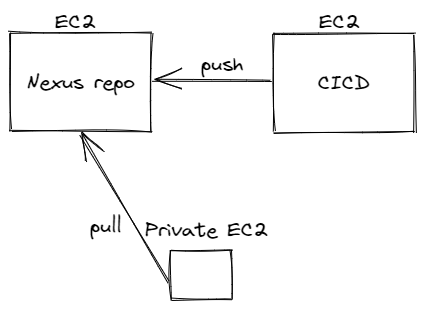
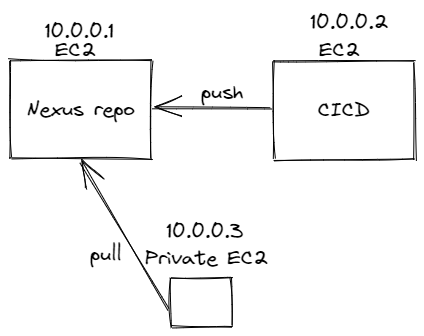
add private ip

diff --git a/README.md b/README.md
@@ -1,5 +1,15 @@
 # nexus-repo
-![alt text](https://github.com/MamNonDevOps/nexus-repo/blob/main/images/overview_x2.png)
+![alt text](https://github.com/MamNonDevOps/nexus-repo/blob/main/images/overview_x1.png)
+
+## User-data
+```
+#!/bin/bash -ex
+yum -y update
+yum -y install docker git
+usermod -aG docker ec2-user
+systemctl enable docker
+systemctl start docker
+```
 
 ## EC2 Nexus repo
 t2.medium (2 vCPU, 4 GB Ram), recommend 4 vCPU trở lên
@@ -14,6 +24,15 @@ Mở thêm port và sử dụng đường dẫn tuyệt đối $(pwd)
 ```
 docker run -d -p 8081:8081 -p 8082:8082 --name nexus -v $(pwd)/nexus-data:/nexus-data sonatype/nexus3
 ```
+
+Kiểm tra log container `nexus` xem đã hoàn thành cài đặt hay chưa `docker log -f nexus`
+
+Giả sử public ip của máy ảo là `54.242.135.2`. Tiến hành truy cập `54.242.135.2:8081` để vào giao diện quản trị
+
+Tài khoản đăng nhập mặc định là `admin`, password xem tại file /nexus-data/admin.password
+
+---
+
 Tạo Blod store cho từng Repo
 
 Docker-hosted
@@ -28,12 +47,9 @@ Docker-group, thêm Docker-hosted và Doker-proxy
 - pull các image trên repo, nếu repo không có thì lấy image từ remote repository khác (Docker hub) (giống Docker proxy)
 - ?? push
 
-## EC2 CICD
-local user-name: `nx-cicd`
+---
 
-role: `nx-cicd`
-
-privilege:
+Tạo role `nx-cicd`, có các privilege:
 * nx-healthcheck-read
 * nx-search-read
 * nx-repository-view-*-*-read
@@ -41,49 +57,57 @@ privilege:
 * nx-repository-view-*-*-edit
 * nx-repository-view-*-*-add
 
-command login:
-```
-docker login -u nx-cicd 54.174.173.12:8082
-```
-với giả định `54.174.173.12` là public ip của EC2 Nexus repo, port 8082 đã mở để thao tác push/pull
+Tạo local user `nx-cicd` với role trên
 
-command tag:
-```
-docker tag image-name:tag new-image-name:new-tag
-```
-command push image:
-```
-docker push 54.174.173.12:8082/new-image-name:new-tag
-```
-
----
-Error response from daemon: Get "https://54.174.173.12:8082/v2/": http: server gave HTTP response to HTTPS client
-```
-sudo su
-touch /etc/docker/daemon.json
-echo "{ \"insecure-registries\":[\"54.174.173.12:8082\"] }" >> /etc/docker/daemon.json
-systemctl restart docker
-su ec2-user
-```
-
-## EC2 private
-local user-name: `nx-ec2`
-
-role: `nx-ec2`
-
-privilege:
+Tạo role `nx-ec2`, có các privilege:
 * nx-healthcheck-read
 * nx-search-read
 * nx-repository-view-*-*-read
 * nx-repository-view-*-*-browse
 
-command login:
+Tạo local user `nx-ec2` với role trên
+
+---
+
+Actice thêm **Docker Bearer Token Realm** trong cài đặt Security -> Realms
+
+## EC2 CICD
+
+command login: (sử dụng user `nx-cicd`)
 ```
-docker login -u nx-ec2 54.174.173.12:8082
+docker login -u nx-cicd 10.0.0.1:8082
+```
+
+Với `10.0.0.1` là private ip của EC2 Nexus repo. Có thể sử dụng public ip của EC2 Nexus repo để thay thế
+
+command tag:
+```
+docker tag image-name:tag 10.0.0.1:8082/image-name:tag
+```
+command push image:
+```
+docker push 10.0.0.1:8082/image-name:tag
+```
+
+---
+Error response from daemon: Get "https://10.0.0.1:8082/v2/": http: server gave HTTP response to HTTPS client
+```
+sudo su
+touch /etc/docker/daemon.json
+echo "{ \"insecure-registries\":[\"172.31.19.205:8082\"] }" >> /etc/docker/daemon.json
+systemctl restart docker
+su ec2-user
+```
+
+## EC2 private
+
+command login: (sử dụng user `nx-ec2`)
+```
+docker login -u nx-ec2 10.0.0.1:8082
 ```
 command pull:
 ```
-docker pull 54.174.173.12:8082/new-image-name:new-tag
+docker pull 10.0.0.1:8082/image-name:tag
 ```
 
 ## Tối ưu
